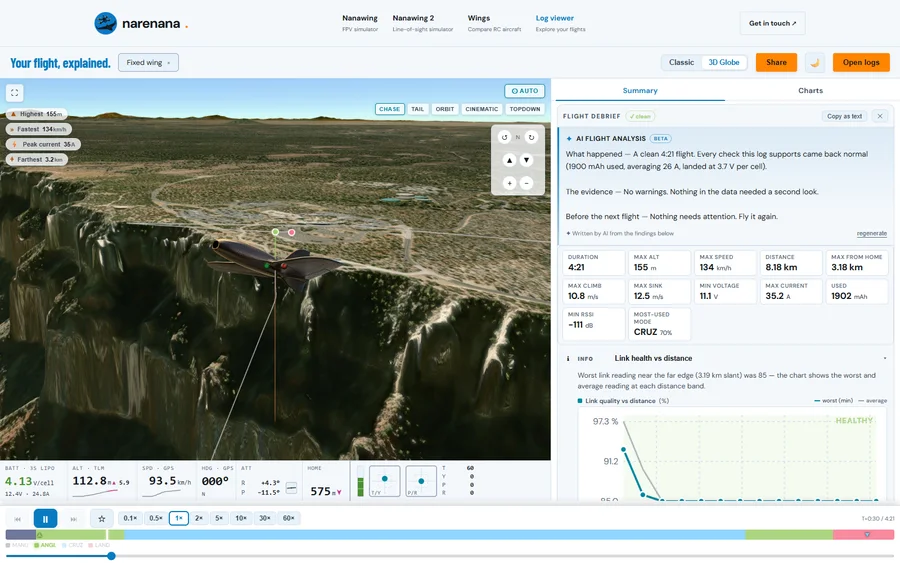
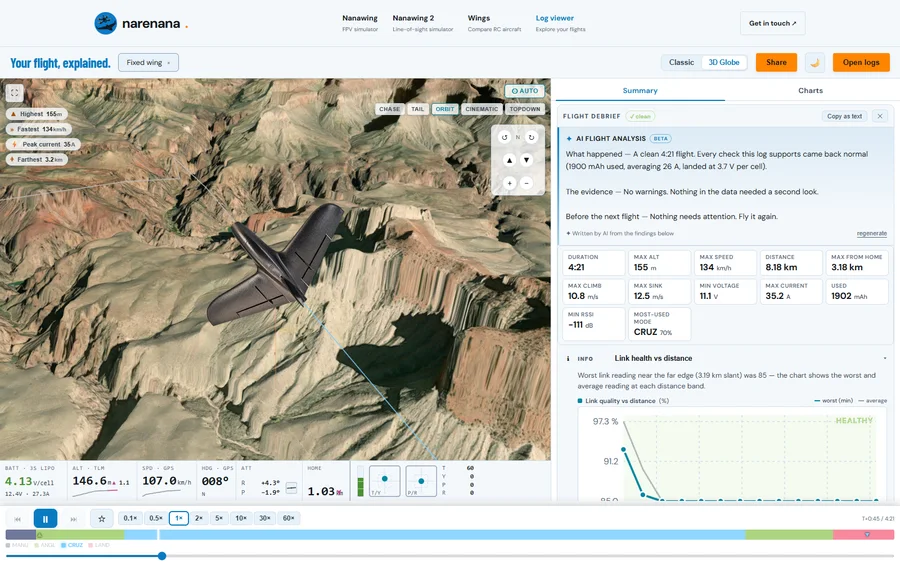
fix(nanawing): the Chupito stands out in the log-viewer picture
Owner, 24 Oct 2026: the black wing was almost invisible against the dark canyon. Astra redid
the picture from a real ORBIT-camera screenshot over light red and tan terrain, with no halo
or outline; the interface stays as captured. Alt text follows the new view.

diff --git a/site/nanawing/chupito-simulator/index.html b/site/nanawing/chupito-simulator/index.html
@@ -18,7 +18,7 @@
 <section class="ac-practice ac-buy" id="buy" aria-labelledby="buy-title"><h2 id="buy-title">Buy a TBS Chupito in India</h2><p class="ac-live" data-wings="tbs-chupito">Compare prices and stock at Indian hobby sellers on the Wings page.</p><div class="ac-variants"><article class="ac-variant" id="buy-kit"><img class="ac-variant-pic" src="/assets/nanawing/chupito-bundle-kit-400.webp?v=a6ca42fa18" srcset="/assets/nanawing/chupito-bundle-kit-400.webp?v=a6ca42fa18 400w, /assets/nanawing/chupito-bundle-kit-800.webp?v=10bfdad4af 800w" sizes="(max-width:959px) 92vw, 360px" alt="The TBS Chupito Kit’s airframe parts laid out: the fuselage pod, both wing panels, the fin, the hatch and the spars" width="400" height="300" loading="lazy" decoding="async"><h3>Chupito Kit</h3><p class="ac-variant-sub">Build it with the parts you choose</p><p>The EPP wing, carbon spars, glass-fibre motor and camera mounts, metal hardware and the sticker sheet. You bring every part that moves or lights up.</p><p>Pick it if you already have a motor, an AIO board or ESC, servos, GPS and a receiver, or want to choose every part yourself. TBS also sells the electronics package on its own.</p><div class="ac-offers" data-wings-offers="tbs-chupito:kit"><p class="ac-note">Compare each seller’s price and stock, as last checked, on the Wings page.</p></div></article><article class="ac-variant" id="buy-pnp"><img class="ac-variant-pic" src="/assets/nanawing/chupito-bundle-pnp-400.webp?v=f4b065faac" srcset="/assets/nanawing/chupito-bundle-pnp-400.webp?v=f4b065faac 400w, /assets/nanawing/chupito-bundle-pnp-800.webp?v=8310cc4c40 800w" sizes="(max-width:959px) 92vw, 360px" alt="The TBS Chupito with its electronics package: two servos, the flight-controller and ESC board, the motor, the GPS and the propeller" width="400" height="300" loading="lazy" decoding="async"><h3>Chupito PNP</h3><p class="ac-variant-sub">Fly on electronics matched to the wing</p><p>Everything in the Kit plus TBS’s electronics: the AIO flight-controller and ESC board, GPS, motor, servos and prop. You add your video system (DJI O3 or O4, Walksnail or analogue), a receiver such as a Crossfire Nano RX, and a 4S–6S pack of 800–1800 mAh under 270 g. Team BlackSheep’s own store calls it the Set.</p><p>Pick it for your first Chupito: the electronics are matched to the wing, and TBS publishes iNAV settings for them.</p><div class="ac-offers" data-wings-offers="tbs-chupito:pnp"><p class="ac-note">Compare each seller’s price and stock, as last checked, on the Wings page.</p></div></article><article class="ac-variant" id="buy-crash-a-lot"><img class="ac-variant-pic" src="/assets/nanawing/chupito-bundle-crash-a-lot-400.webp?v=927d187584" srcset="/assets/nanawing/chupito-bundle-crash-a-lot-400.webp?v=927d187584 400w, /assets/nanawing/chupito-bundle-crash-a-lot-800.webp?v=084bcdfae4 800w" sizes="(max-width:959px) 92vw, 360px" alt="Two TBS Chupito airframes, one of them spare, with the electronics package" width="400" height="300" loading="lazy" decoding="async"><h3>Chupito Crash-A-Lot</h3><p class="ac-variant-sub">Keep flying after a hard landing</p><p>The PNP’s airframe and electronics, plus spare foam parts to swap in after a hard landing.</p><p>Pick it if this is your first wing, or your field is unforgiving.</p><div class="ac-offers" data-wings-offers="tbs-chupito:crash-a-lot"><p class="ac-note">Compare each seller’s price and stock, as last checked, on the Wings page.</p></div></article><article class="ac-variant ac-variant-other" id="buy-other" hidden><h3>Pick up a Chupito in another bundle</h3><div class="ac-offers" data-wings-offers="tbs-chupito:other"></div></article></div><p class="ac-note ac-centre">Prices and stock as last checked at each seller. Confirm on the seller’s page before you pay. Bundle photos: FpvGuru. The Chupito is by <a href="https://www.team-blacksheep.com/products/prod:tbs_chupito_kit" target="_blank" rel="noopener">Team BlackSheep&nbsp;<span aria-hidden="true">↗</span></a>.</p><p class="ac-centre">Compare the Chupito’s price and stock at each Indian hobby seller on Wings, with the date each was last checked and a link straight to the seller’s page. You buy from the seller; we don’t sell anything. Team BlackSheep’s own page has the kit, the manual and its suggested iNAV settings.</p><ul class="ac-links"><li><a href="/wings/tbs-chupito/">Compare TBS Chupito prices in India</a></li><li><a href="https://www.team-blacksheep.com/products/prod:tbs_chupito_kit" target="_blank" rel="noopener">See the kit at Team BlackSheep&nbsp;<span aria-hidden="true">↗</span></a></li><li><a href="https://www.team-blacksheep.com/media/files/tbs-chupito-manual.pdf" target="_blank" rel="noopener">Read the TBS Chupito manual&nbsp;<span aria-hidden="true">↗</span></a></li><li><a href="https://www.team-blacksheep.com/media/files/tbs-chupito-inav-cli.txt" target="_blank" rel="noopener">Get TBS’s iNAV settings for the Chupito&nbsp;<span aria-hidden="true">↗</span></a></li></ul></section>
 
 <section class="ac-practice ac-prints" id="prints" aria-labelledby="prints-title"><h2 id="prints-title">3D-print Chupito parts other pilots already designed</h2><p>Each link goes to the designer’s own page on MakerWorld or Thingiverse, with the notes and downloads there. Test-fit each print on your own build first.</p><div class="ac-print-group" data-print-group="0"><h3>Keep the camera and VTX where you put them</h3><ul class="ac-print-list"><li data-print="mw-1719772"><a class="ac-print-pic" href="https://makerworld.com/en/models/1719772-tbs-chupito-800-pan-tower" target="_blank" rel="noopener" tabindex="-1" aria-hidden="true"><img class="ac-print-img" src="/assets/nanawing/chupito-print-mw-1719772-400.webp?v=1779410575" srcset="/assets/nanawing/chupito-print-mw-1719772-400.webp?v=1779410575 400w, /assets/nanawing/chupito-print-mw-1719772-800.webp?v=b7a7a01d5f 800w" sizes="(max-width:599px) 92vw, (max-width:959px) 45vw, 360px" alt="TBS Chupito 800 Pan-Tower, the 3D print by ninjamic85 on MakerWorld" width="400" height="300" loading="lazy" decoding="async"></a><a href="https://makerworld.com/en/models/1719772-tbs-chupito-800-pan-tower" target="_blank" rel="noopener">TBS Chupito 800 Pan-Tower&nbsp;<span aria-hidden="true">↗</span></a><span class="ac-print-by">ninjamic85 · MakerWorld</span><p>Pan the camera on a Feetech FT90M servo and look into the turn. It is the mount Team BlackSheep links from the kit page, and the designer links a DJI O4 Pro mount for it.</p></li><li data-print="tv-7271567"><a class="ac-print-pic" href="https://www.thingiverse.com/thing:7271567" target="_blank" rel="noopener" tabindex="-1" aria-hidden="true"><img class="ac-print-img" src="/assets/nanawing/chupito-print-tv-7271567-400.webp?v=3e07c3e810" srcset="/assets/nanawing/chupito-print-tv-7271567-400.webp?v=3e07c3e810 400w, /assets/nanawing/chupito-print-tv-7271567-800.webp?v=57e6028106 800w" sizes="(max-width:599px) 92vw, (max-width:959px) 45vw, 360px" alt="TBS Chupito camera pod with a lock, the 3D print by DJISilesia on Thingiverse" width="400" height="300" loading="lazy" decoding="async"></a><a href="https://www.thingiverse.com/thing:7271567" target="_blank" rel="noopener">TBS Chupito camera pod with a lock&nbsp;<span aria-hidden="true">↗</span></a><span class="ac-print-by">DJISilesia · Thingiverse</span><p>A camera pod that locks between the battery-tray ribs, so a hard throw can’t push the VTX assembly back. Lift the lock with a finger to take it out.</p></li><li data-print="mw-1946291"><a class="ac-print-pic" href="https://makerworld.com/en/models/1946291-tbs-chupito-vtx-cage-lock" target="_blank" rel="noopener" tabindex="-1" aria-hidden="true"><img class="ac-print-img" src="/assets/nanawing/chupito-print-mw-1946291-400.webp?v=98ccbaa942" srcset="/assets/nanawing/chupito-print-mw-1946291-400.webp?v=98ccbaa942 400w, /assets/nanawing/chupito-print-mw-1946291-800.webp?v=4e7c44e32c 800w" sizes="(max-width:599px) 92vw, (max-width:959px) 45vw, 360px" alt="TBS Chupito VTX Cage lock, the 3D print by JP75 on MakerWorld" width="400" height="300" loading="lazy" decoding="async"></a><a href="https://makerworld.com/en/models/1946291-tbs-chupito-vtx-cage-lock" target="_blank" rel="noopener">TBS Chupito VTX Cage lock&nbsp;<span aria-hidden="true">↗</span></a><span class="ac-print-by">JP75 · MakerWorld</span><p>A 2 g TPU block that stops the stock VTX support sliding back when you throw.</p></li><li data-print="mw-3078621"><a class="ac-print-pic" href="https://makerworld.com/en/models/3078621-tbs-chupito-o4-pro-10-degree-soft-mount" target="_blank" rel="noopener" tabindex="-1" aria-hidden="true"><img class="ac-print-img" src="/assets/nanawing/chupito-print-mw-3078621-400.webp?v=9812be5d0c" srcset="/assets/nanawing/chupito-print-mw-3078621-400.webp?v=9812be5d0c 400w, /assets/nanawing/chupito-print-mw-3078621-800.webp?v=739704c0ba 800w" sizes="(max-width:599px) 92vw, (max-width:959px) 45vw, 360px" alt="TBS Chupito O4 Pro 10 degree soft mount, the 3D print by BobbyFPV on MakerWorld" width="400" height="300" loading="lazy" decoding="async"></a><a href="https://makerworld.com/en/models/3078621-tbs-chupito-o4-pro-10-degree-soft-mount" target="_blank" rel="noopener">TBS Chupito O4 Pro 10 degree soft mount&nbsp;<span aria-hidden="true">↗</span></a><span class="ac-print-by">BobbyFPV · MakerWorld</span><p>Soft-mounts a DJI O4 Pro on M2 gummies, tilts it 10° down and leaves room for ND filters.</p></li></ul></div><div class="ac-print-group" data-print-group="1"><h3>A hatch and a battery that stay put</h3><ul class="ac-print-list"><li data-print="mw-2202893"><a class="ac-print-pic" href="https://makerworld.com/en/models/2202893-tbs-chupito-battery-holder" target="_blank" rel="noopener" tabindex="-1" aria-hidden="true"><img class="ac-print-img" src="/assets/nanawing/chupito-print-mw-2202893-400.webp?v=728eedf3af" srcset="/assets/nanawing/chupito-print-mw-2202893-400.webp?v=728eedf3af 400w, /assets/nanawing/chupito-print-mw-2202893-800.webp?v=9b3fd94803 800w" sizes="(max-width:599px) 92vw, (max-width:959px) 45vw, 360px" alt="TBS Chupito Battery Holder, the 3D print by FPV Tribe on MakerWorld" width="400" height="300" loading="lazy" decoding="async"></a><a href="https://makerworld.com/en/models/2202893-tbs-chupito-battery-holder" target="_blank" rel="noopener">TBS Chupito Battery Holder&nbsp;<span aria-hidden="true">↗</span></a><span class="ac-print-by">FPV Tribe · MakerWorld</span><p>Lets shorter 5-inch quad packs sit tight under the stock strap. One version takes an Ummagrip plate, so the CG stays where you set it from pack to pack.</p></li><li data-print="tv-7153131"><a class="ac-print-pic" href="https://www.thingiverse.com/thing:7153131" target="_blank" rel="noopener" tabindex="-1" aria-hidden="true"><img class="ac-print-img" src="/assets/nanawing/chupito-print-tv-7153131-400.webp?v=7fcb4f965d" srcset="/assets/nanawing/chupito-print-tv-7153131-400.webp?v=7fcb4f965d 400w, /assets/nanawing/chupito-print-tv-7153131-800.webp?v=e1ba538ed2 800w" sizes="(max-width:599px) 92vw, (max-width:959px) 45vw, 360px" alt="TBS Chupito Battery Tray 2 Stap, the 3D print by GibroniFPV on Thingiverse" width="400" height="300" loading="lazy" decoding="async"></a><a href="https://www.thingiverse.com/thing:7153131" target="_blank" rel="noopener">TBS Chupito Battery Tray 2 Stap&nbsp;<span aria-hidden="true">↗</span></a><span class="ac-print-by">GibroniFPV · Thingiverse</span><p>A TPU tray with two straps in the middle, for when the single stock strap won’t hold a balanced pack.</p></li><li data-print="tv-7147551"><a class="ac-print-pic" href="https://www.thingiverse.com/thing:7147551" target="_blank" rel="noopener" tabindex="-1" aria-hidden="true"><img class="ac-print-img" src="/assets/nanawing/chupito-print-tv-7147551-400.webp?v=7f221bec3b" srcset="/assets/nanawing/chupito-print-tv-7147551-400.webp?v=7f221bec3b 400w, /assets/nanawing/chupito-print-tv-7147551-800.webp?v=c4ffbc1995 800w" sizes="(max-width:599px) 92vw, (max-width:959px) 45vw, 360px" alt="Screw Down Hatch for Team BlackSheep Chupito, the 3D print by GibroniFPV on Thingiverse" width="400" height="300" loading="lazy" decoding="async"></a><a href="https://www.thingiverse.com/thing:7147551" target="_blank" rel="noopener">Screw Down Hatch for Team BlackSheep Chupito&nbsp;<span aria-hidden="true">↗</span></a><span class="ac-print-by">GibroniFPV · Thingiverse</span><p>If the foam hatch is gone, this one screws down with an M3 instead of clipping. Stretch it 2mm before printing; the designer’s page says why.</p></li></ul></div><div class="ac-print-group" data-print-group="2"><h3>Protect the fins, servos and wings</h3><ul class="ac-print-list"><li data-print="mw-1834737"><a class="ac-print-pic" href="https://makerworld.com/en/models/1834737-tbs-chupito-bottom-fin-slider" target="_blank" rel="noopener" tabindex="-1" aria-hidden="true"><img class="ac-print-img" src="/assets/nanawing/chupito-print-mw-1834737-400.webp?v=8f15f00779" srcset="/assets/nanawing/chupito-print-mw-1834737-400.webp?v=8f15f00779 400w, /assets/nanawing/chupito-print-mw-1834737-800.webp?v=2af6cf11aa 800w" sizes="(max-width:599px) 92vw, (max-width:959px) 45vw, 360px" alt="TBS Chupito Bottom Fin Slider, the 3D print by FPV Tribe on MakerWorld" width="400" height="300" loading="lazy" decoding="async"></a><a href="https://makerworld.com/en/models/1834737-tbs-chupito-bottom-fin-slider" target="_blank" rel="noopener">TBS Chupito Bottom Fin Slider&nbsp;<span aria-hidden="true">↗</span></a><span class="ac-print-by">FPV Tribe · MakerWorld</span><p>A skid for the bottom fin, so landings on tarmac wear the print and not the foam. Tape or hot-glue it on.</p></li><li data-print="mw-2255520"><a class="ac-print-pic" href="https://makerworld.com/en/models/2255520-tbs-chupito-magnetic-wing-connectors" target="_blank" rel="noopener" tabindex="-1" aria-hidden="true"><img class="ac-print-img" src="/assets/nanawing/chupito-print-mw-2255520-400.webp?v=7d029f2a71" srcset="/assets/nanawing/chupito-print-mw-2255520-400.webp?v=7d029f2a71 400w, /assets/nanawing/chupito-print-mw-2255520-800.webp?v=1af1036001 800w" sizes="(max-width:599px) 92vw, (max-width:959px) 45vw, 360px" alt="TBS Chupito Magnetic Wing Connectors, the 3D print by BMS Racing on MakerWorld" width="400" height="300" loading="lazy" decoding="async"></a><a href="https://makerworld.com/en/models/2255520-tbs-chupito-magnetic-wing-connectors" target="_blank" rel="noopener">TBS Chupito Magnetic Wing Connectors&nbsp;<span aria-hidden="true">↗</span></a><span class="ac-print-by">BMS Racing · MakerWorld</span><p>Slide the wings on with a magnetic click, no servo leads to plug in. Uses the spring-loaded 4-pin connectors the designer links.</p></li><li data-print="mw-2198866"><a class="ac-print-pic" href="https://makerworld.com/en/models/2198866-servo-air-cover-tbs-chupito" target="_blank" rel="noopener" tabindex="-1" aria-hidden="true"><img class="ac-print-img" src="/assets/nanawing/chupito-print-mw-2198866-400.webp?v=cf3d8a4acf" srcset="/assets/nanawing/chupito-print-mw-2198866-400.webp?v=cf3d8a4acf 400w, /assets/nanawing/chupito-print-mw-2198866-800.webp?v=fb9d9e0d4e 800w" sizes="(max-width:599px) 92vw, (max-width:959px) 45vw, 360px" alt="Servo air cover TBS Chupito, the 3D print by voba18 on MakerWorld" width="400" height="300" loading="lazy" decoding="async"></a><a href="https://makerworld.com/en/models/2198866-servo-air-cover-tbs-chupito" target="_blank" rel="noopener">Servo air cover TBS Chupito&nbsp;<span aria-hidden="true">↗</span></a><span class="ac-print-by">voba18 · MakerWorld</span><p>Hides the servo arms for a cleaner wing. Print it in ASA or nylon and glue it on.</p></li></ul></div><div class="ac-print-group" data-print-group="3"><h3>Keep the electronics bay tidy</h3><ul class="ac-print-list"><li data-print="mw-2228858"><a class="ac-print-pic" href="https://makerworld.com/en/models/2228858-tbs-chupito-fpv-wing-usb-c-board-mount" target="_blank" rel="noopener" tabindex="-1" aria-hidden="true"><img class="ac-print-img" src="/assets/nanawing/chupito-print-mw-2228858-400.webp?v=c52d962703" srcset="/assets/nanawing/chupito-print-mw-2228858-400.webp?v=c52d962703 400w, /assets/nanawing/chupito-print-mw-2228858-800.webp?v=af2e68bd43 800w" sizes="(max-width:599px) 92vw, (max-width:959px) 45vw, 360px" alt="TBS Chupito FPV Wing USB-C Board Mount, the 3D print by BMS Racing on MakerWorld" width="400" height="300" loading="lazy" decoding="async"></a><a href="https://makerworld.com/en/models/2228858-tbs-chupito-fpv-wing-usb-c-board-mount" target="_blank" rel="noopener">TBS Chupito FPV Wing USB-C Board Mount&nbsp;<span aria-hidden="true">↗</span></a><span class="ac-print-by">BMS Racing · MakerWorld</span><p>Tape a USB-C board to the print and clip it into the bay, so the port stays reachable.</p></li><li data-print="mw-1767392"><a class="ac-print-pic" href="https://makerworld.com/en/models/1767392-chupito-fc-deck" target="_blank" rel="noopener" tabindex="-1" aria-hidden="true"><img class="ac-print-img" src="/assets/nanawing/chupito-print-mw-1767392-400.webp?v=dba4addab0" srcset="/assets/nanawing/chupito-print-mw-1767392-400.webp?v=dba4addab0 400w, /assets/nanawing/chupito-print-mw-1767392-800.webp?v=d70efc0949 800w" sizes="(max-width:599px) 92vw, (max-width:959px) 45vw, 360px" alt="Chupito FC Deck, the 3D print by cooties on MakerWorld" width="400" height="300" loading="lazy" decoding="async"></a><a href="https://makerworld.com/en/models/1767392-chupito-fc-deck" target="_blank" rel="noopener">Chupito FC Deck&nbsp;<span aria-hidden="true">↗</span></a><span class="ac-print-by">cooties · MakerWorld</span><p>Swap the plywood deck for a printed one that fits your 20×20mm or 30.5mm flight controller, with room for the ESC and GPS.</p></li></ul></div><div class="ac-print-group" data-print-group="4"><h3>Hang it up between flights</h3><ul class="ac-print-list"><li data-print="mw-1827050"><a class="ac-print-pic" href="https://makerworld.com/en/models/1827050-wall-mount-hanger-for-tbs-chupito-fpv-wing" target="_blank" rel="noopener" tabindex="-1" aria-hidden="true"><img class="ac-print-img" src="/assets/nanawing/chupito-print-mw-1827050-400.webp?v=0c53b6169c" srcset="/assets/nanawing/chupito-print-mw-1827050-400.webp?v=0c53b6169c 400w, /assets/nanawing/chupito-print-mw-1827050-800.webp?v=765c08ac85 800w" sizes="(max-width:599px) 92vw, (max-width:959px) 45vw, 360px" alt="Wall Mount Hanger for TBS Chupito FPV Wing, the 3D print by TacGriz on MakerWorld" width="400" height="300" loading="lazy" decoding="async"></a><a href="https://makerworld.com/en/models/1827050-wall-mount-hanger-for-tbs-chupito-fpv-wing" target="_blank" rel="noopener">Wall Mount Hanger for TBS Chupito FPV Wing&nbsp;<span aria-hidden="true">↗</span></a><span class="ac-print-by">TacGriz · MakerWorld</span><p>Hang the wing on the wall by its motor with one screw; made for the standard TBS electronics package.</p></li></ul></div></section>
-<section class="ac-practice ac-logs" id="logs" aria-labelledby="logs-title"><h2 id="logs-title">Analyse your Chupito flight logs in 3D</h2><figure class="ac-log-shot"><img src="/assets/nanawing/chupito-log-viewer-900.webp?v=d7aaf9275b" srcset="/assets/nanawing/chupito-log-viewer-900.webp?v=d7aaf9275b 900w, /assets/nanawing/chupito-log-viewer-1600.webp?v=0e1a6c9c2c 1600w" sizes="(max-width:1180px) 100vw, 1132px" alt="The log viewer replaying its sample flight over canyon country on a 3D globe, with a TBS Chupito in the 3D view and the AI flight analysis beside it" width="1600" height="1000" loading="lazy" decoding="async"><figcaption>The log viewer’s built-in sample flight on a 3D globe, with the AI flight analysis beside it.</figcaption></figure><p>Drop your Chupito’s log into the log viewer and fly the flight again on a 3D globe, with the charts alongside. See where the nose dropped before that wobble, and what the battery did on the long climb.</p><p>Then let the AI flight analysis write it up: what happened, the evidence, and what to check before your next flight, in plain English you can share. It’s in beta and reads only an anonymous summary of the flight’s numbers; your log file never leaves your machine.</p><p>Most Chupitos fly iNAV, and the log viewer reads its blackbox logs. Betaflight blackbox logs and the telemetry CSV from your EdgeTX radio’s SD card work too. Free, in your browser.</p><p class="ac-note">Reads iNAV blackbox logs from 9.x and earlier, and Betaflight up to 4.5.</p><ul class="ac-links"><li><a href="/log-viewer/">Analyse your Chupito log now</a></li><li><a href="/log-viewer/inav-blackbox-viewer/">Open iNAV blackbox logs</a></li><li><a href="/videos/log-viewer-walkthrough/">Watch the 2-minute walkthrough</a></li><li><a href="/log-viewer/guides/">Turn on logging in EdgeTX, Betaflight or iNAV</a></li></ul></section>
+<section class="ac-practice ac-logs" id="logs" aria-labelledby="logs-title"><h2 id="logs-title">Analyse your Chupito flight logs in 3D</h2><figure class="ac-log-shot"><img src="/assets/nanawing/chupito-log-viewer-900.webp?v=8c0da1c8bf" srcset="/assets/nanawing/chupito-log-viewer-900.webp?v=8c0da1c8bf 900w, /assets/nanawing/chupito-log-viewer-1600.webp?v=5f46c9e803 1600w" sizes="(max-width:1180px) 100vw, 1132px" alt="The log viewer replaying its sample flight over red and tan canyon country on a 3D globe, with a TBS Chupito in the 3D view and the AI flight analysis beside it" width="1600" height="1000" loading="lazy" decoding="async"><figcaption>The log viewer’s built-in sample flight on a 3D globe, with the AI flight analysis beside it.</figcaption></figure><p>Drop your Chupito’s log into the log viewer and fly the flight again on a 3D globe, with the charts alongside. See where the nose dropped before that wobble, and what the battery did on the long climb.</p><p>Then let the AI flight analysis write it up: what happened, the evidence, and what to check before your next flight, in plain English you can share. It’s in beta and reads only an anonymous summary of the flight’s numbers; your log file never leaves your machine.</p><p>Most Chupitos fly iNAV, and the log viewer reads its blackbox logs. Betaflight blackbox logs and the telemetry CSV from your EdgeTX radio’s SD card work too. Free, in your browser.</p><p class="ac-note">Reads iNAV blackbox logs from 9.x and earlier, and Betaflight up to 4.5.</p><ul class="ac-links"><li><a href="/log-viewer/">Analyse your Chupito log now</a></li><li><a href="/log-viewer/inav-blackbox-viewer/">Open iNAV blackbox logs</a></li><li><a href="/videos/log-viewer-walkthrough/">Watch the 2-minute walkthrough</a></li><li><a href="/log-viewer/guides/">Turn on logging in EdgeTX, Betaflight or iNAV</a></li></ul></section>
 <section class="ac-practice ac-thanks" id="thanks" aria-labelledby="thanks-title"><h2 id="thanks-title">Thank you, Team BlackSheep</h2><p>Pilots keep filming the Chupito, and I can see why: it is one of the most loved FPV wings flying today. The people at Team BlackSheep built it tough and quick, easy to put together and fun to throw. Thank you for making it, and for letting it fly in Nanawing under its own name.</p><ul class="ac-links"><li><a href="https://www.team-blacksheep.com/" target="_blank" rel="noopener">Visit Team BlackSheep&nbsp;<span aria-hidden="true">↗</span></a></li><li><a href="https://www.team-blacksheep.com/products/prod:tbs_chupito_kit" target="_blank" rel="noopener">See the TBS Chupito kit at Team BlackSheep&nbsp;<span aria-hidden="true">↗</span></a></li></ul></section>
 <section class="ac-faq" id="faq" aria-labelledby="faq-title"><h2 id="faq-title">Answers before you fly</h2><details><summary>Is this the real TBS Chupito?</summary><p>It’s Nanawing’s recreation of Team BlackSheep’s 800mm wing, with the same span and shape. It is not an official TBS simulator. Practise the habits here; the kit itself comes from Team BlackSheep.</p></details><details><summary>Do I need an RC radio?</summary><p>No. Fly on the keyboard, a gamepad or your own USB RC radio. On the keyboard, tap for a nudge and hold for full stick.</p></details><details><summary>Does it work on a phone?</summary><p>Yes. Open the same link on your phone and fly with two thumb sticks on the screen.</p></details><details><summary>Is it free, and do I have to install anything?</summary><p>It’s free and runs in your browser: no install, no login. After the first visit it works offline too.</p></details><details><summary>Where can I buy a TBS Chupito in India?</summary><p>Compare Chupito prices and stock at Indian hobby sellers on Wings, then buy from each seller’s page. <a href="/wings/tbs-chupito/">Compare TBS Chupito prices in India</a>.</p></details><details><summary>What’s the difference between the Chupito Kit, PNP and Crash-A-Lot?</summary><p>The Kit is the airframe on its own: you add every electronic part. The PNP adds TBS’s electronics package, matched to the wing (Team BlackSheep’s store calls it the Set). The Crash-A-Lot is the PNP plus a spare set of foam parts. <a href="#buy">Compare the three bundles</a>.</p></details><details><summary>Where is the TBS Chupito manual, and how do I set it up in iNAV?</summary><p>Team BlackSheep publishes the Chupito manual and its suggested iNAV settings for the Chupito’s electronics. Mads Tech’s video above walks through the build and the iNAV setup. <a href="https://www.team-blacksheep.com/media/files/tbs-chupito-manual.pdf" target="_blank" rel="noopener">Read the TBS Chupito manual&nbsp;<span aria-hidden="true">↗</span></a>.</p></details><details><summary>Are there 3D-printed parts for the Chupito?</summary><p>Yes. Pilots have shared prints for the camera, battery, hatch and fins on MakerWorld and Thingiverse. <a href="#prints">See the prints</a>.</p></details><details><summary>How do I analyse my Chupito flight logs?</summary><p>Drop your iNAV or Betaflight blackbox log, or your EdgeTX radio’s telemetry CSV, into the log viewer. Fly the flight again on a 3D globe with the charts alongside, and let the AI flight analysis, in beta, tell you what happened in plain English. Free in your browser. Your log file never leaves your machine; the AI analysis gets only an anonymous summary of the numbers. <a href="/log-viewer/">Open the log viewer</a>.</p></details><p class="ac-note">Sim time is no substitute for instruction, aircraft checks or safe flying at the field.</p></section>
 <section class="ac-final" id="go" aria-labelledby="go-title"><h2 id="go-title">Get some stick time in before it arrives</h2><p>Take the Chupito round Windmill Run, then thread it through Estate Run’s giant oaks. Fly it in your browser on a laptop, or on your phone.</p><a class="ac-btn" href="https://sim.narenana.com/?play&amp;aircraft=chupito" target="_blank" rel="noopener">Fly the Chupito now <span aria-hidden="true">↗</span></a></section>
